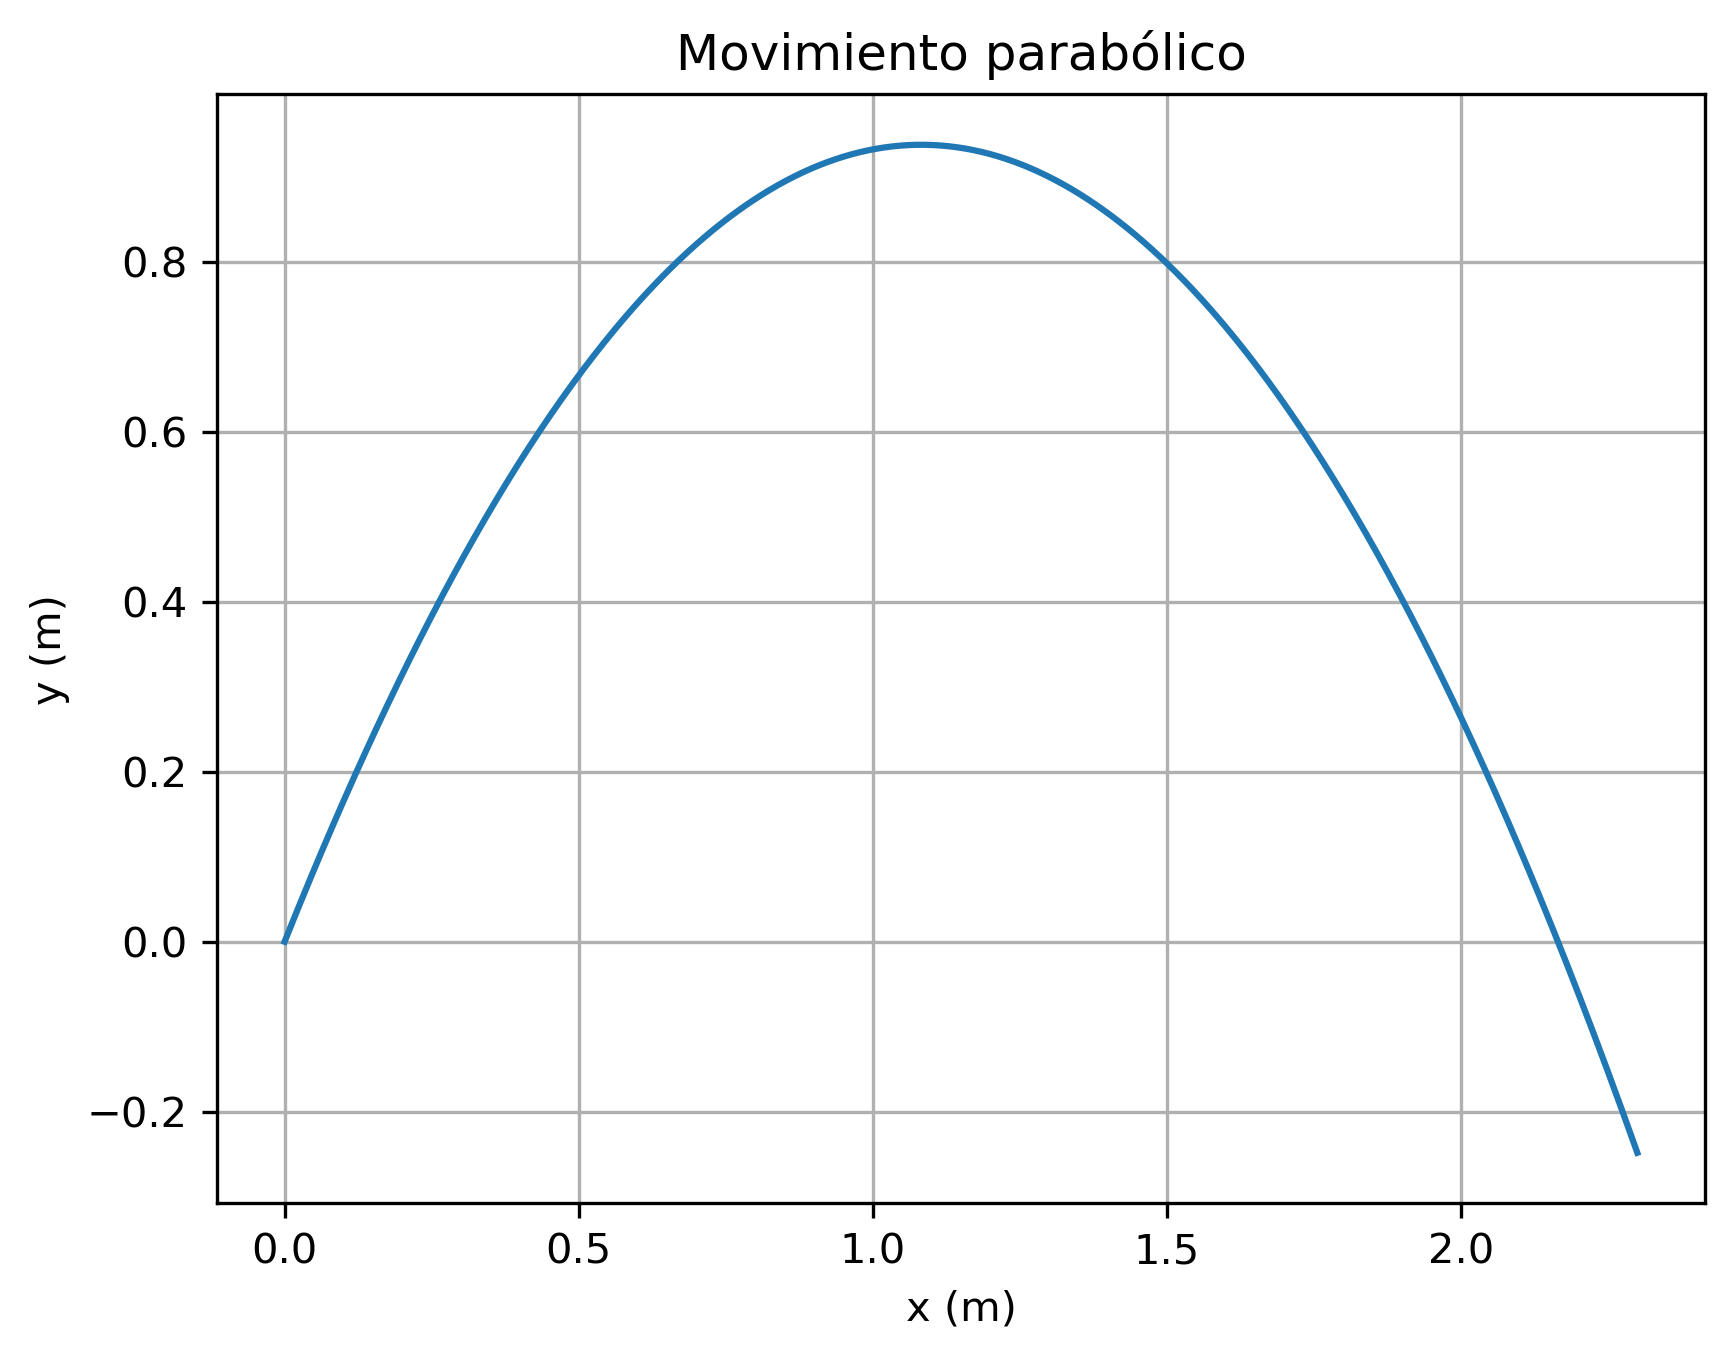
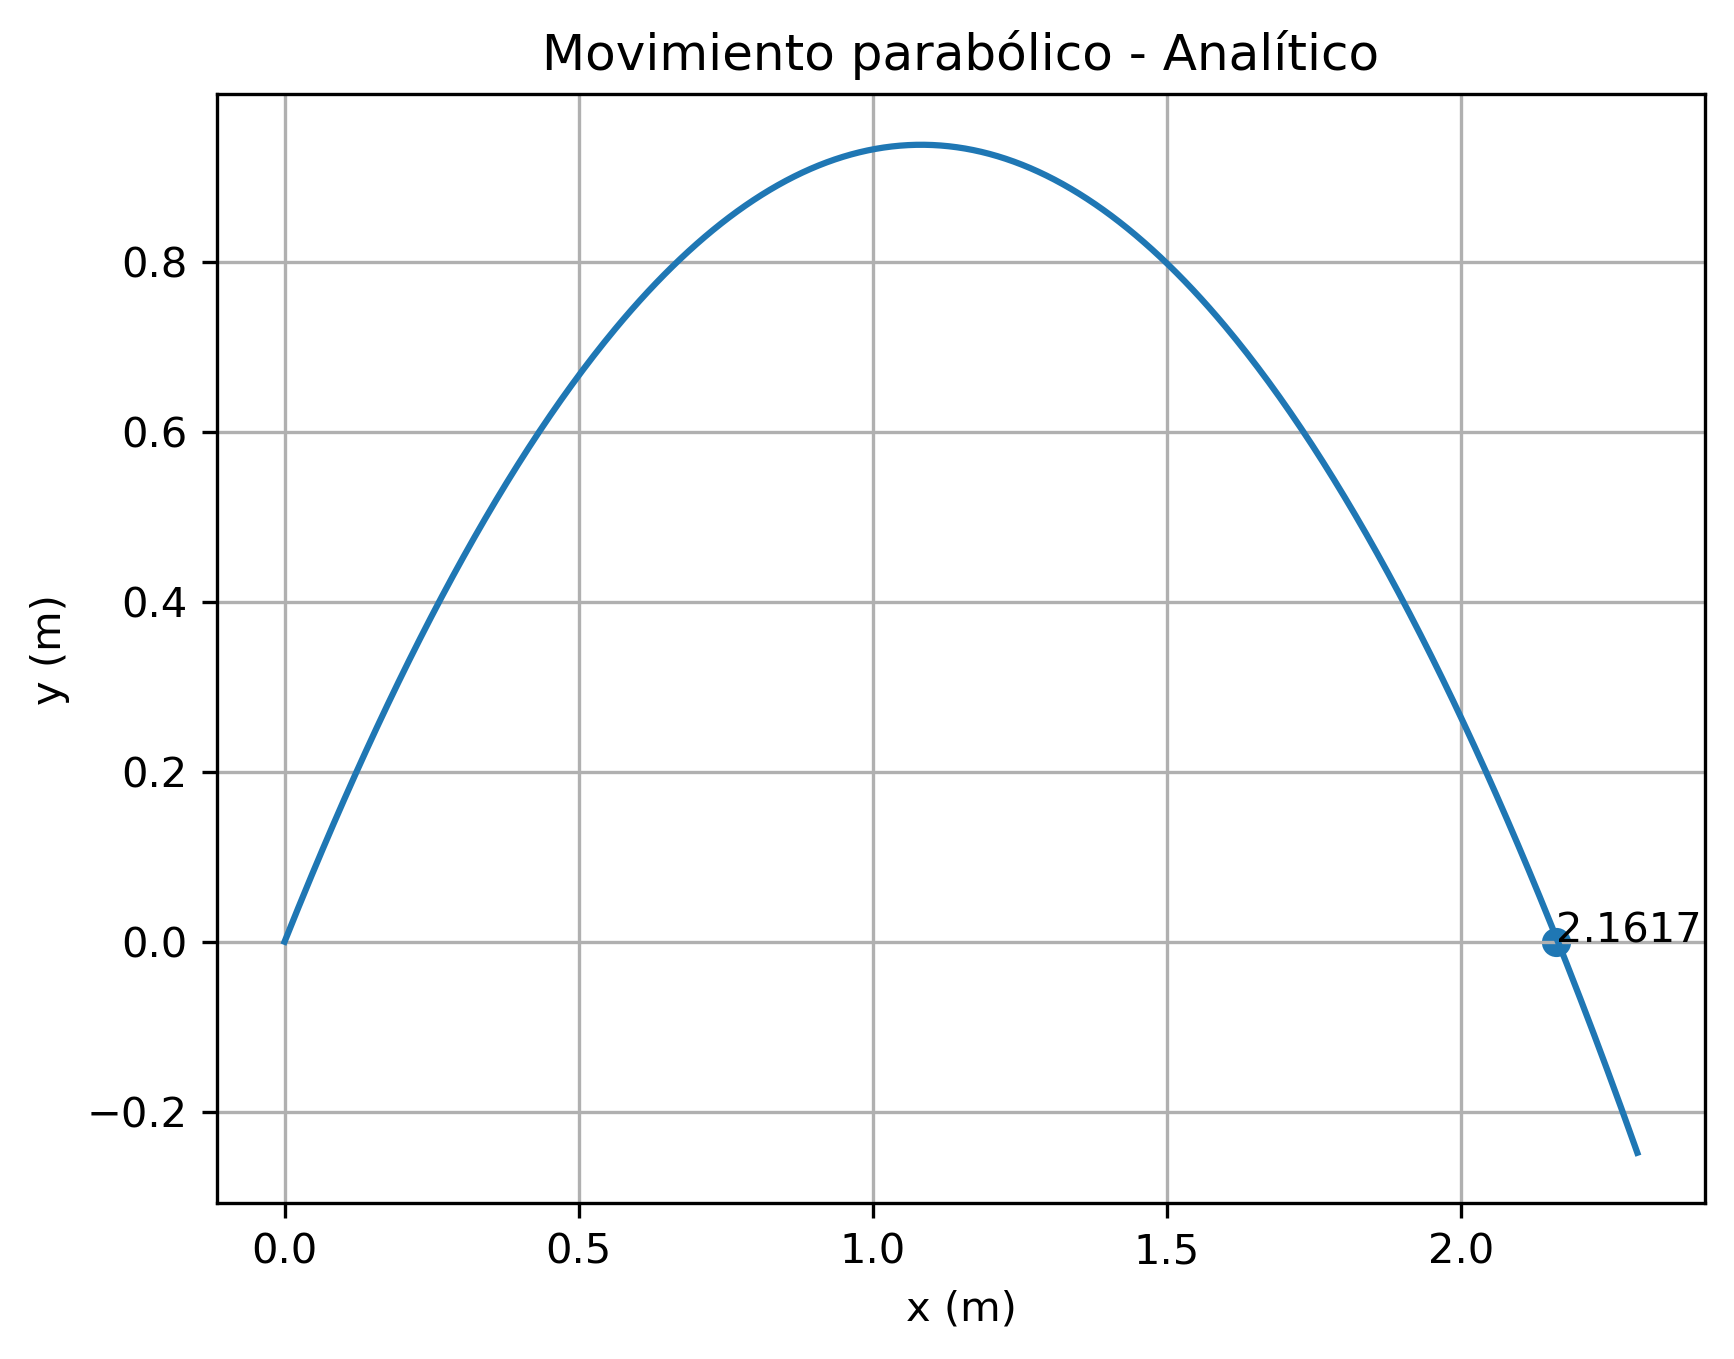
feat: add 'alcance' item inside the graph

Changed region(s): [[0.3114, 0.0309, 0.8097, 0.0618], [0.872, 0.6799, 0.9654, 0.7108]]

diff --git a/code/problem01_2.py b/code/problem01_2.py
@@ -1,0 +1,49 @@
+import numpy as np
+import matplotlib.pyplot as plt
+
+# Parámetros
+a = -10
+v0 = 5
+alpha = np.radians(60)
+
+vx = v0 * np.cos(alpha)
+vy = v0 * np.sin(alpha)
+
+x = 0
+y = 0
+
+h = 0.01
+tfin = 50
+
+px = [x]
+py = [y]
+
+for t in np.arange(0, tfin, h):
+
+  vy_pred = vy + h * a
+
+  y = y + h * (vy + vy_pred) / 2
+  x = x + h * vx
+
+  vy = vy_pred
+
+  px.append(x)
+  py.append(y)
+
+  if y < 0:
+    break
+
+# Último punto físico válido
+alcance = px[-2]
+
+# Gráfica
+plt.plot(px, py)
+plt.scatter(alcance, 0)
+plt.text(alcance, 0, f'{alcance:.4f}')
+plt.grid(True)
+plt.xlabel('x (m)')
+plt.ylabel('y (m)')
+plt.title('Movimiento parabólico - Método de Heun')
+
+plt.savefig('../images/problem01_2.png', dpi=300, bbox_inches='tight')
+plt.show()